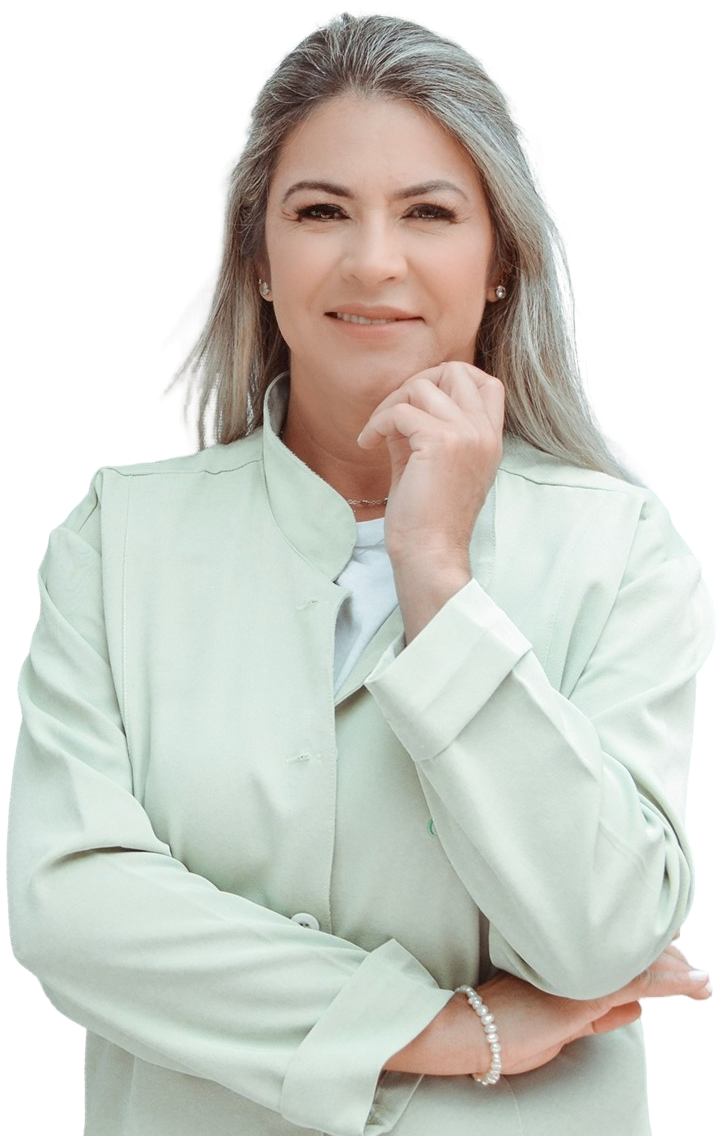
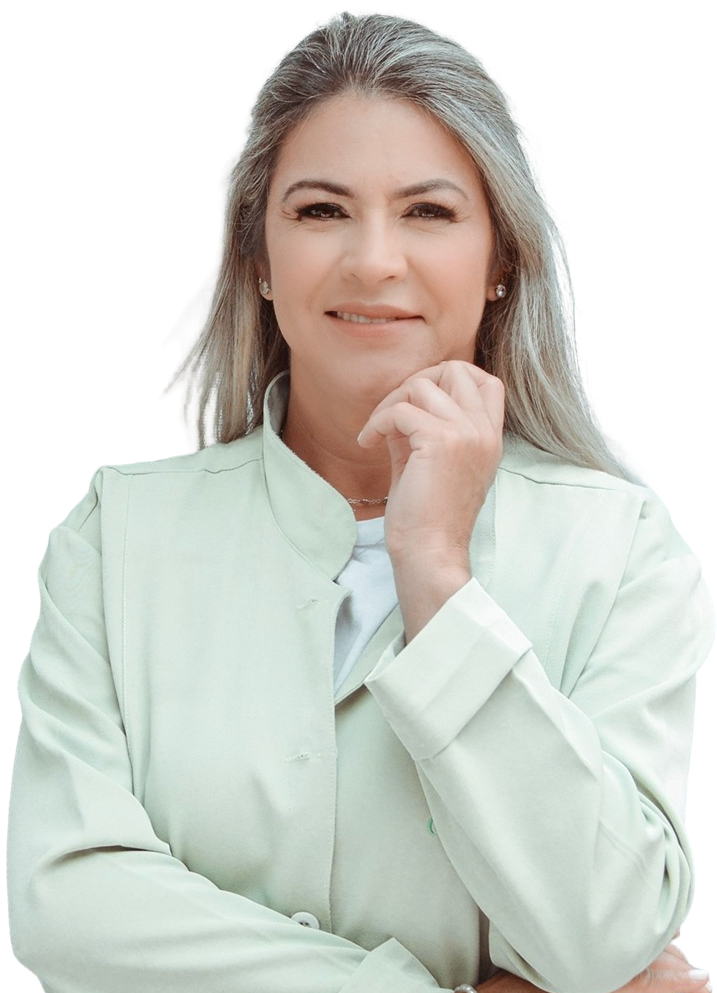
mudança na capa

diff --git a/style.css b/style.css
@@ -129,44 +129,40 @@ a:hover {
 /*abaixo configurações do main*/
 
 main {
-    display: flex;
-    flex-direction: column;
+   
+display: block;
 }
 
 .capa{
     display: flex;
-    height: 82vh;
-    background-color: #ecf7f796;
-    justify-content: center;
+    justify-content: space-around;
     align-items: flex-end;
+    height: 82vh;
 }
-
-.capa-texto{
-    display: flex;
-    flex-direction: column;
+.texto-da-capa{
+    padding-bottom: 200px;
 }
-.capa-texto h1 {
+.texto-da-capa h1{
     font-family: var(--font-destaque);
     font-size: 80px;
     color: var(--cor4);
 }
-span.titulo {
+span.texto-principal-capa{
     color: var(--cor2);
 }
-.capa-texto p {
+.texto-da-capa p {
     font-family: var(--font-padrao);
     font-size: 18px;
     color:var(--cor5);
-    margin-top: 10px;
+
 }
 
-
-@media (max-width:780px) {
-
-    .capa h1 {
-        font-size: 50px;
-    }
+@media (max-width:790px){
+   .capa{
+       height: 68vh;
+   }
 }
+
 .atendimento {
     display: flex;
     flex-direction: column;

diff --git a/index.html b/index.html
@@ -33,14 +33,11 @@
 
     <main>
         <section class="capa">
-            
-            <div class="capa-texto">
-                <h1>Paixão por cuidar<br> do seus <span class="titulo">pés</span>.</h1>
-                <p>Há mais de 15 anos cuidando dos pés</p>
-            </div>
-
-            <img src="imagens/AirBrush_20211221003734-removebg.png" width="22%" alt="capa" class="img-capa">
-           
+           <div class="texto-da-capa">
+               <h1>Paixão por cuidar<br> dos seus <span class="texto-principal-capa">pés</span>.</h1>
+               <p>Há mais de 15 anos cuidando dos pés</p>
+           </div>
+           <img src="imagens/capa5.png" width="35%" alt="Claudia Araujo">
         </section>
 
         <section class="atendimento">
